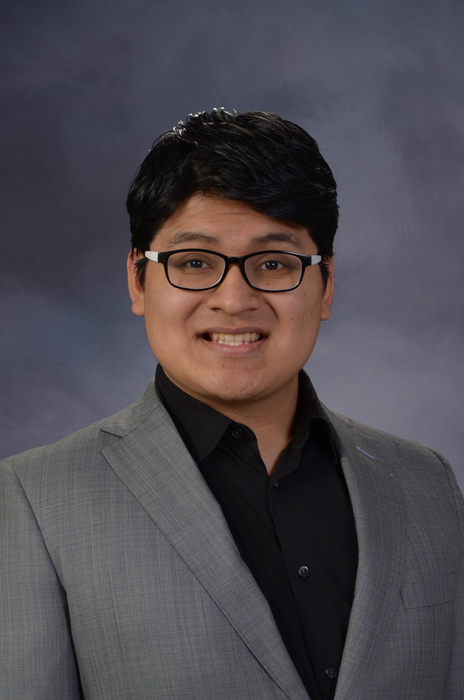
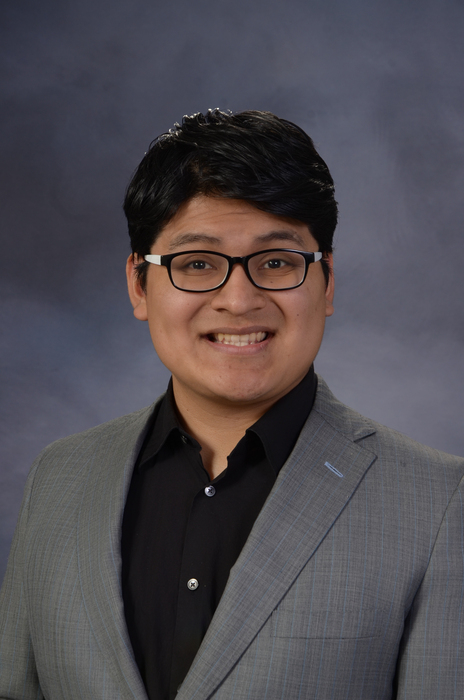
a

diff --git a/style.css b/style.css
@@ -21,9 +21,14 @@ button{
     display: flex;
     align-items: center;
     color: var(--color-1);
+    height: 12rem;
     width: 100%;
     padding: .4rem .8rem;
     box-sizing: border-box;
+}
+.header img {
+  height: 100%;
+  width: auto;
 }
 .name{
     font-size: 1.2rem;